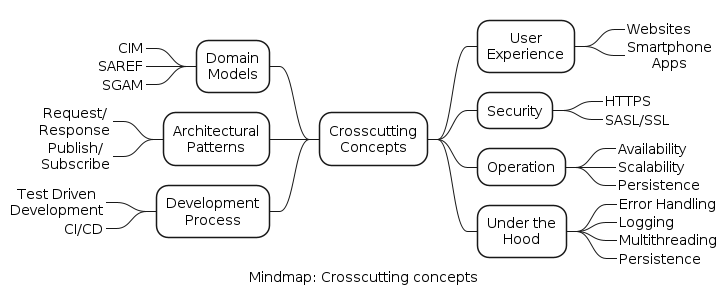
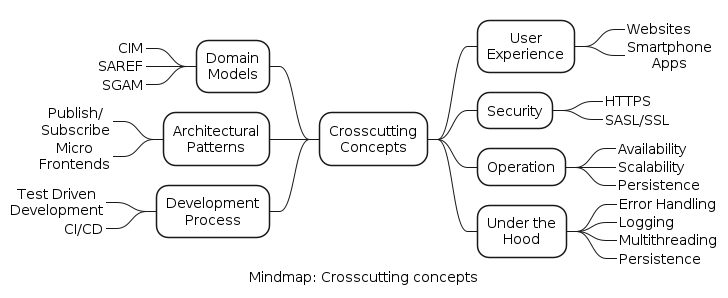
Add micro frontends description

Changed region(s): [[0.0302, 0.3624, 0.1511, 0.453], [0.0604, 0.4832, 0.1511, 0.5738]]

diff --git a/arc42/08-crosscut-concepts/architectural-patterns/micro-frontends/micro-frontends.md b/arc42/08-crosscut-concepts/architectural-patterns/micro-frontends/micro-frontends.md
@@ -1,0 +1,25 @@
+---
+title: Publish/Subscribe
+---
+
+## Definition
+
+<!-- What it is -->
+
+Micro frontends is an architectural pattern for building websites or applications in which the user interface is divided into smaller, self-contained parts. Each part, called a micro frontend, handles a specific function or feature. These micro frontends can be developed and deployed independently, using different technologies and frameworks. This architectural pattern allows multiple teams to work concurrently on different parts of the user interface, while seamlessly integrating them into a cohesive and coherent frontend application. By treating each frontend component as a standalone application, with its own lifecycle and development stack, micro frontends enable independent scaling, testing, and deployment, enhancing reusability in complex and rapidly evolving frontend applications.
+
+## Relevance
+
+<!-- Where it is used, i.e., in what parts of EDDIE -->
+
+This architectural pattern is used for the development of the Consent Facade which provides the necessary frontend elements to the EP Website based on the country of the consumer.
+
+## Motivation
+
+<!-- Why it is used, what are alternatives, why is this preferred compared to alternatives -->
+
+The Consent Facade needs to be able to connect to the Regional Data-sharing Infrastructure of different countries, with each country potentially implementing different procedures and mechanisms. For this reason, the micro frontends pattern is used for offering to the consumer one frontend application which uses a different micro frontend for every country. This allows for a homogeneous user experience for all the consumers, while also managing to cope with the potentially diverse information required from the consumers based on their origin country.
+
+Alternatives to the micro frontends are:
+
+- Monolithic Frontend: The entire frontend application is developed and deployed as a single unit. This approach is simpler to implement and requires less overhead in terms of deployment and communication between components. However, it can become challenging to maintain and scale as the application grows larger and more complex.

diff --git a/arc42/08-crosscut-concepts/index.md b/arc42/08-crosscut-concepts/index.md
@@ -31,4 +31,5 @@ The motivation for using some of these concepts is provided below.
 | Architectural Pattern | Section |
 | - | - |
 | Publish/Subscribe | [Link](./architectural-patterns/publish-subscribe/publish-subscribe.md) | 
+| Micro frontends | [Link](./architectural-patterns/micro-frontends/micro-frontends.md) | 
 
